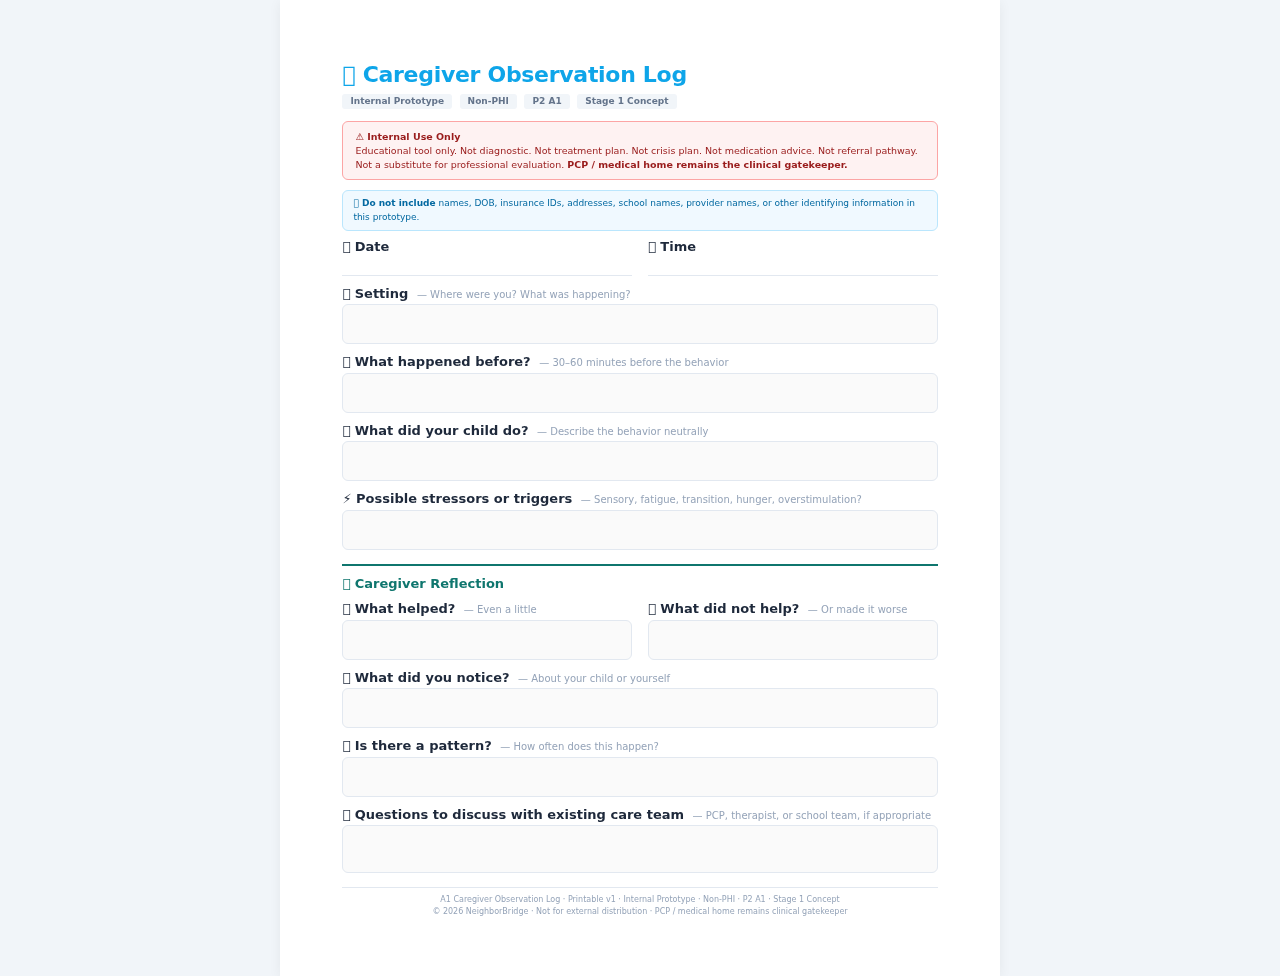
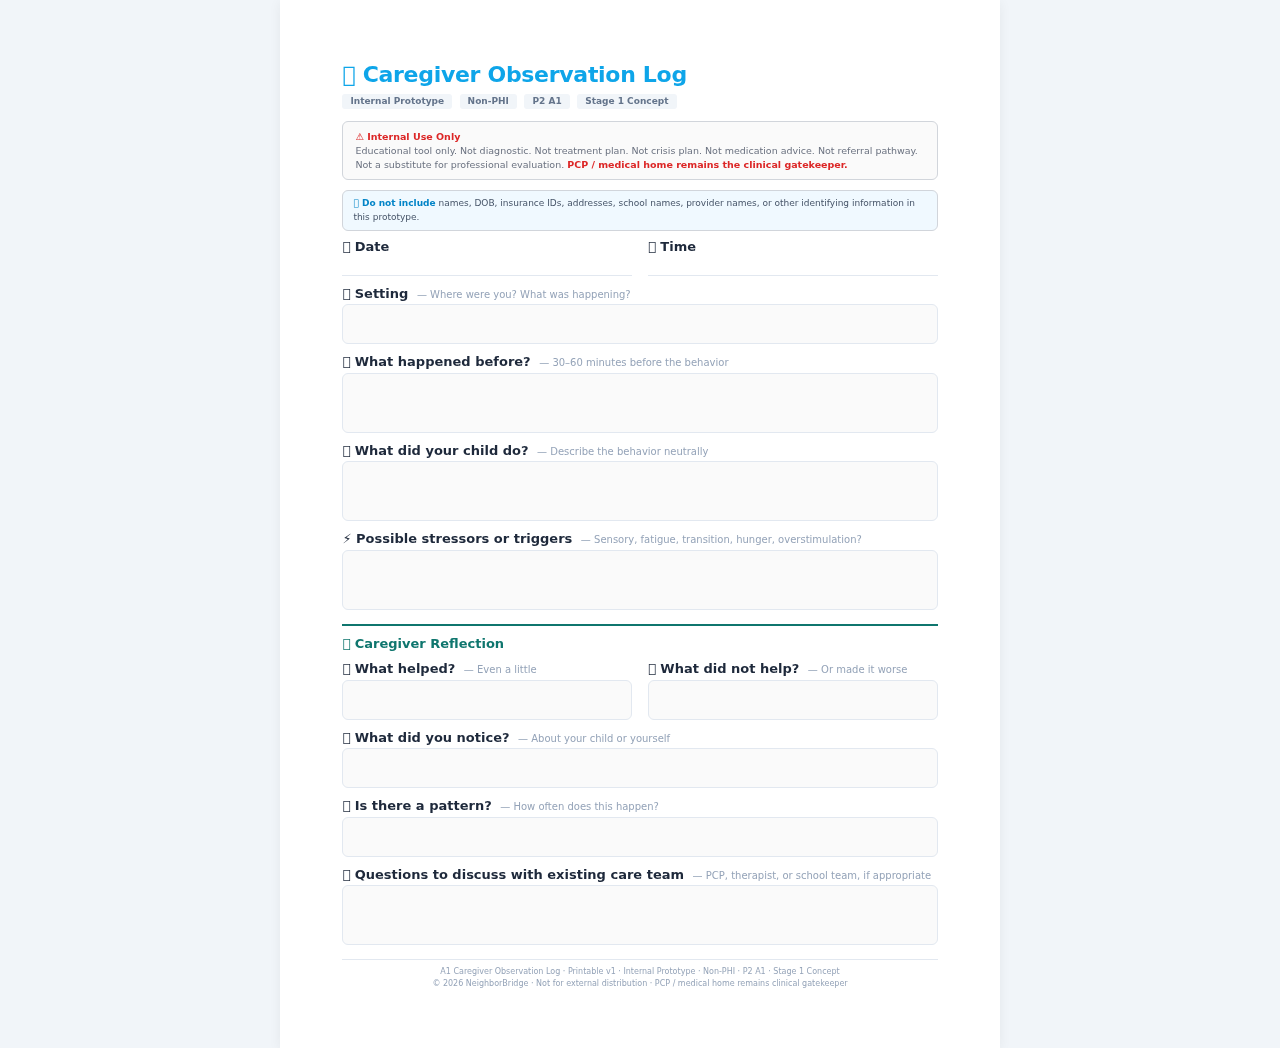
Finalize A1 caregiver observation log printable v1
- Softer boundary box: neutral gray background with red only for warning text
- Softer PHI note: gray border/color with blue accent for 'Do not include'
- Increased writing space for 4 key fields (before, child behavior, triggers, care team questions)
- All content unchanged, no new sections
- P2 remains Stage 1, A2-A5 not created

diff --git a/p2-a1-observation-log-printable-v1.html b/p2-a1-observation-log-printable-v1.html
@@ -16,12 +16,15 @@
     .field label .section-label { font-size: 10px; font-weight: 400; color: #94a3b8; margin-left: 4px; }
     .field-line { border: none; border-bottom: 1.5px solid #e2e8f0; width: 100%; height: 18px; }
     .field-box { border: 1px solid #e2e8f0; border-radius: 6px; padding: 5px 8px; min-height: 40px; background: #fafafa; }
+    .field-box-tall { border: 1px solid #e2e8f0; border-radius: 6px; padding: 5px 8px; min-height: 60px; background: #fafafa; }
     .flex-row { display: flex; gap: 16px; }
     .flex-row > * { flex: 1; }
     .section-divider { border: none; border-top: 2px solid #0f766e; margin: 14px 0 8px; }
     .section-title { font-size: 13px; font-weight: 700; color: #0f766e; margin: 0 0 6px; }
-    .boundary-box { background: #fef2f2; border: 1px solid #fca5a5; border-radius: 6px; padding: 8px 12px; margin: 10px 0; font-size: 9.5px; color: #991b1b; line-height: 1.45; }
-    .ph-note { background: #f0f9ff; border: 1px solid #bae6fd; border-radius: 6px; padding: 6px 10px; font-size: 9px; color: #0369a1; margin: 6px 0; }
+    .boundary-box { background: #fafafa; border: 1px solid #d1d5db; border-radius: 6px; padding: 8px 12px; margin: 10px 0; font-size: 9.5px; color: #6b7280; line-height: 1.45; }
+    .boundary-box strong { color: #dc2626; }
+    .ph-note { background: #f0f9ff; border: 1px solid #d1d5db; border-radius: 6px; padding: 6px 10px; font-size: 9px; color: #475569; margin: 6px 0; }
+    .ph-note strong { color: #0284c7; }
     .footer { border-top: 1px solid #e2e8f0; margin-top: 14px; padding-top: 6px; font-size: 8px; color: #94a3b8; text-align: center; line-height: 1.5; }
     .internal-tag { display: inline-block; background: #f1f5f9; color: #64748b; padding: 1px 8px; border-radius: 3px; font-size: 9px; font-weight: 600; }
     @media print {
@@ -55,9 +58,9 @@
     </div>
 
     <div class="field"><label>📍 Setting <span class="section-label">— Where were you? What was happening?</span></label><div class="field-box">&nbsp;</div></div>
-    <div class="field"><label>⏮ What happened before? <span class="section-label">— 30–60 minutes before the behavior</span></label><div class="field-box">&nbsp;</div></div>
-    <div class="field"><label>👶 What did your child do? <span class="section-label">— Describe the behavior neutrally</span></label><div class="field-box">&nbsp;</div></div>
-    <div class="field"><label>⚡ Possible stressors or triggers <span class="section-label">— Sensory, fatigue, transition, hunger, overstimulation?</span></label><div class="field-box">&nbsp;</div></div>
+    <div class="field"><label>⏮ What happened before? <span class="section-label">— 30–60 minutes before the behavior</span></label><div class="field-box-tall">&nbsp;</div></div>
+    <div class="field"><label>👶 What did your child do? <span class="section-label">— Describe the behavior neutrally</span></label><div class="field-box-tall">&nbsp;</div></div>
+    <div class="field"><label>⚡ Possible stressors or triggers <span class="section-label">— Sensory, fatigue, transition, hunger, overstimulation?</span></label><div class="field-box-tall">&nbsp;</div></div>
 
     <hr class="section-divider">
     <div class="section-title">💭 Caregiver Reflection</div>
@@ -69,7 +72,7 @@
 
     <div class="field"><label>🔍 What did you notice? <span class="section-label">— About your child or yourself</span></label><div class="field-box">&nbsp;</div></div>
     <div class="field"><label>🔁 Is there a pattern? <span class="section-label">— How often does this happen?</span></label><div class="field-box">&nbsp;</div></div>
-    <div class="field"><label>🗣 Questions to discuss with existing care team <span class="section-label">— PCP, therapist, or school team, if appropriate</span></label><div class="field-box" style="min-height: 48px;">&nbsp;</div></div>
+    <div class="field"><label>🗣 Questions to discuss with existing care team <span class="section-label">— PCP, therapist, or school team, if appropriate</span></label><div class="field-box-tall">&nbsp;</div></div>
 
     <div class="footer">
       A1 Caregiver Observation Log · Printable v1 · Internal Prototype · Non-PHI · P2 A1 · Stage 1 Concept<br>